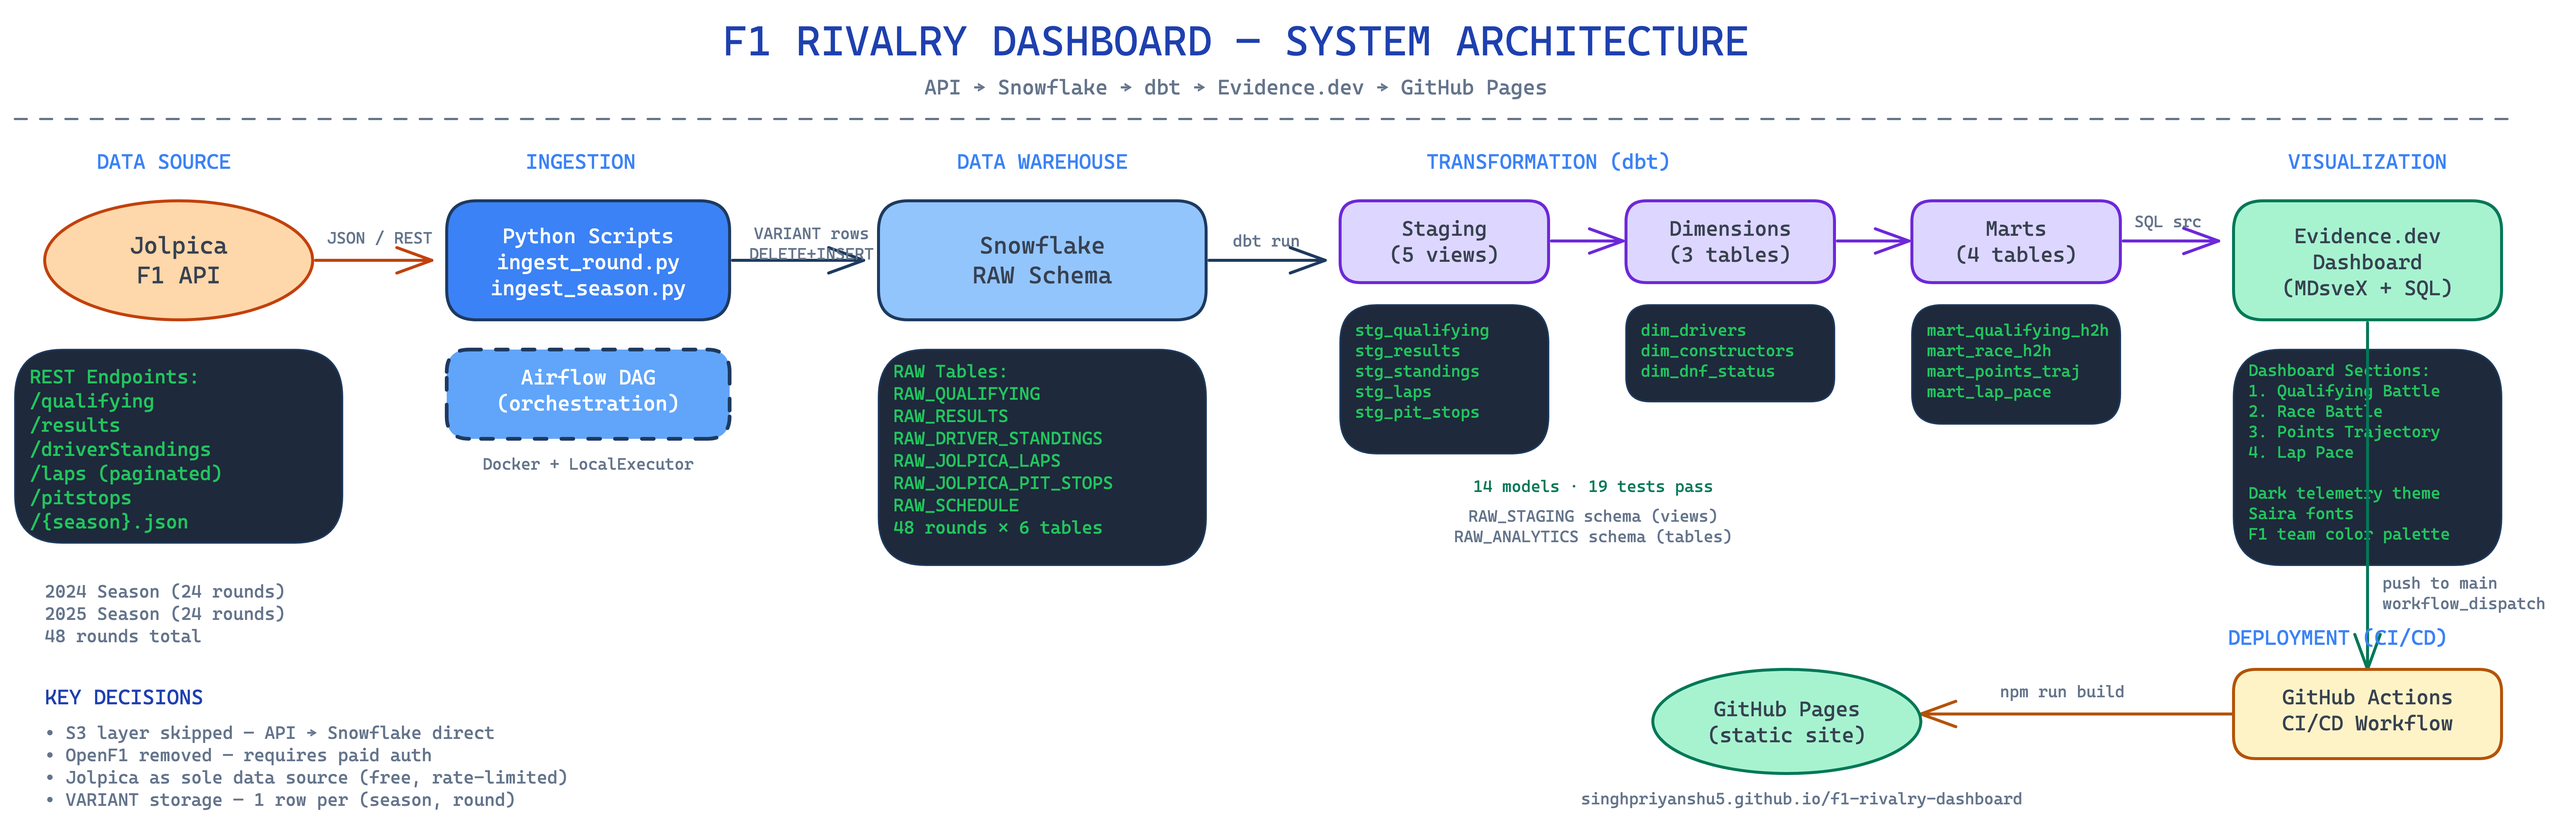
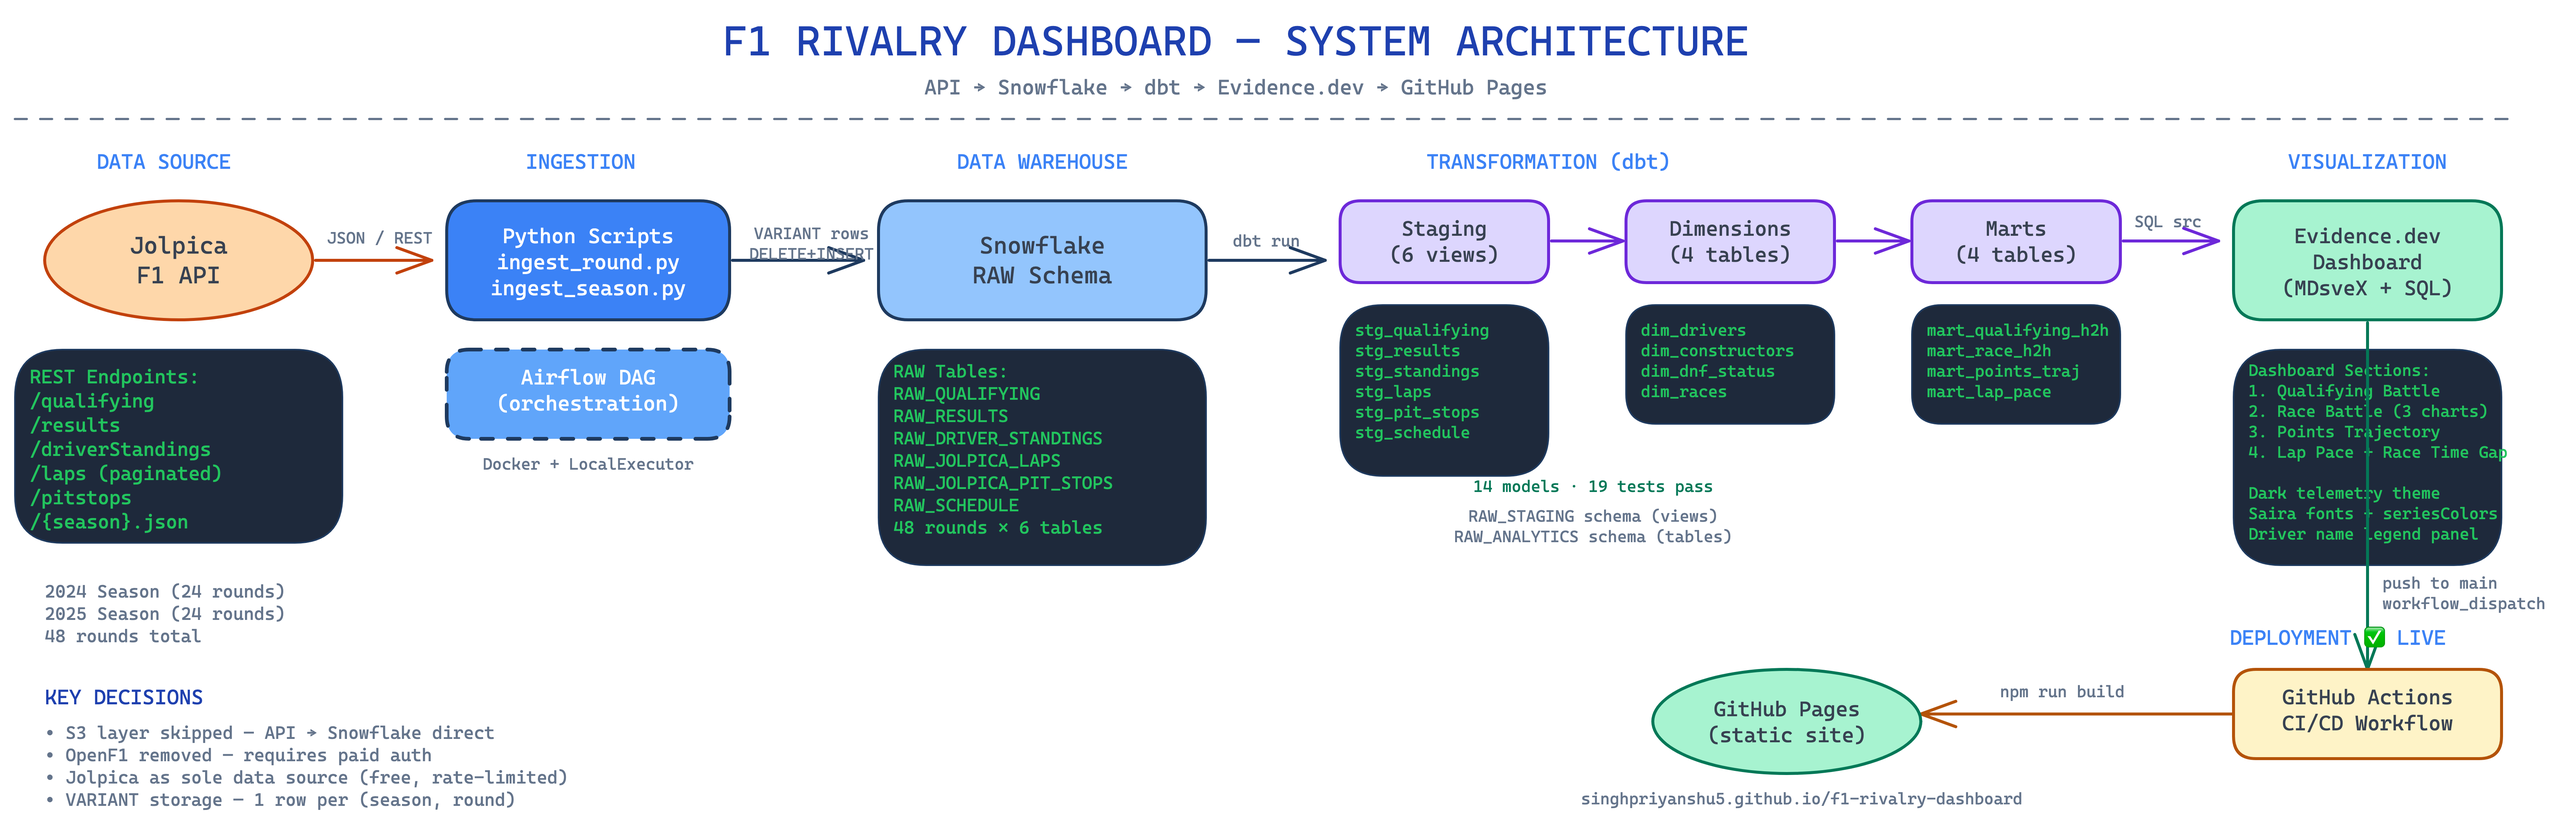
Add README and update architecture diagrams to reflect current state

diff --git a/README.md b/README.md
@@ -1,0 +1,177 @@
+# F1 Teammate Rivalry Dashboard
+
+An end-to-end data engineering project that visualizes Formula 1 teammate rivalries across qualifying, race results, points progression, and lap pace — built with a modern analytics stack.
+
+**Live Dashboard:** [singhpriyanshu5.github.io/f1-rivalry-dashboard](https://singhpriyanshu5.github.io/f1-rivalry-dashboard/)
+
+![System Architecture](agent_outputs/architecture/f1-system-architecture.png)
+
+## Features
+
+- **Qualifying Battle** — Head-to-head qualifying wins and average gap (ms) per round
+- **Race Battle** — Points swing, position gap scatter, cumulative H2H wins, and detailed race results
+- **Points Trajectory** — Season-long cumulative points for selected teammates
+- **Lap Pace Comparison** — Lap-by-lap overlay and total race time gap per round
+- **Mid-Season Driver Swaps** — Cascading dropdowns let you select specific driver pairings (e.g. 2025 Red Bull: LAW vs VER for R01-R02, VER vs TSU for R03-R24)
+- **Dark Telemetry UI** — Motorsport-inspired theme with Saira fonts, F1 team colors, and card-based layout
+
+## Tech Stack
+
+| Layer | Technology |
+|-------|------------|
+| **Data Source** | [Jolpica F1 API](https://github.com/jolpica/jolpica-f1) (qualifying, results, standings, laps, pit stops, schedule) |
+| **Orchestration** | Apache Airflow (Dockerized, LocalExecutor) |
+| **Warehouse** | Snowflake (3 schema layers: RAW → STAGING → ANALYTICS) |
+| **Transformation** | dbt Core (14 models, 19 tests) |
+| **Dashboard** | [Evidence.dev](https://evidence.dev) (static site, Markdown + SQL) |
+| **CI/CD** | GitHub Actions → GitHub Pages |
+
+## Architecture
+
+```
+Jolpica API → Python Ingestion → Snowflake RAW (VARIANT)
+                                      ↓
+                                 dbt Staging (flatten + parse)
+                                      ↓
+                                 dbt Marts (H2H, trajectory, pace)
+                                      ↓
+                                 Evidence.dev → GitHub Pages
+```
+
+**Key decisions:**
+- S3 layer skipped — data flows API → Snowflake directly
+- OpenF1 replaced with Jolpica (OpenF1 requires paid sponsorship since ~2025)
+- API responses stored as single VARIANT array row per (season, round) for idempotent DELETE+INSERT
+
+## Project Structure
+
+```
+f1-rivalry-dashboard/
+├── airflow/                  # Airflow Docker setup + DAGs
+│   ├── dags/
+│   │   ├── f1_pipeline_dag.py
+│   │   └── utils/            # Jolpica API client
+│   ├── docker-compose.yml
+│   └── Dockerfile
+├── dbt/                      # dbt transformations
+│   ├── models/
+│   │   ├── staging/          # stg_qualifying, stg_results, stg_laps, etc.
+│   │   ├── dimensions/       # dim_drivers, dim_constructors, dim_races, dim_dnf_status
+│   │   └── marts/            # mart_qualifying_h2h, mart_race_h2h, mart_points_trajectory, mart_lap_pace
+│   ├── seeds/                # dnf_status_mapping.csv
+│   └── dbt_project.yml
+├── evidence/                 # Evidence.dev dashboard
+│   ├── pages/
+│   │   ├── index.md          # Dashboard page (SQL + Svelte components)
+│   │   └── +layout.svelte    # Custom dark theme layout
+│   ├── sources/snowflake/    # Source SQL queries
+│   ├── patches/              # patch-package fixes for Evidence components
+│   └── evidence.config.yaml
+├── scripts/                  # Standalone ingestion scripts
+│   ├── ingest_round.py       # Ingest single round: python ingest_round.py 2024 1
+│   ├── ingest_season.py      # Ingest full season with rate limiting
+│   └── test_apis.py          # API connectivity test
+├── sql/
+│   └── snowflake_setup.sql   # DDL for raw tables
+└── .github/workflows/
+    └── deploy-evidence.yml   # CI/CD: build Evidence → deploy to GitHub Pages
+```
+
+## Setup
+
+### Prerequisites
+
+- Python 3.9+
+- Node.js 18+
+- Docker & Docker Compose (for Airflow)
+- Snowflake account
+- dbt Core (`pip install dbt-snowflake`)
+
+### 1. Clone & Configure
+
+```bash
+git clone https://github.com/singhpriyanshu5/f1-rivalry-dashboard.git
+cd f1-rivalry-dashboard
+cp .env.example .env
+# Fill in Snowflake credentials in .env
+```
+
+### 2. Snowflake Setup
+
+```bash
+# Run the DDL to create database, schemas, and raw tables
+# Execute sql/snowflake_setup.sql in your Snowflake worksheet
+```
+
+### 3. Ingest Data
+
+```bash
+pip install snowflake-connector-python requests pandas python-dotenv
+
+# Single round
+python scripts/ingest_round.py 2024 1
+
+# Full season (sequential with rate limiting)
+python scripts/ingest_season.py 2024
+```
+
+> **Note:** Jolpica rate-limits at ~30 req/min. The season script handles this with 2s delays between rounds.
+
+### 4. Run dbt
+
+```bash
+cd dbt
+dbt deps
+dbt seed        # Load dnf_status_mapping.csv
+dbt run         # Build 14 models
+dbt test        # Run 19 tests
+```
+
+### 5. Run Evidence Dashboard (local)
+
+```bash
+cd evidence
+npm install          # postinstall runs patch-package automatically
+npm run sources      # Fetch data from Snowflake
+npm run dev          # Dev server at localhost:3000
+```
+
+### 6. Build & Deploy
+
+Pushing to `main` triggers the GitHub Actions workflow which builds Evidence and deploys to GitHub Pages.
+
+```bash
+# Or build locally
+cd evidence
+npm run build        # Static output in evidence/build/
+```
+
+**Required GitHub repo secrets for CI/CD:**
+- `EVIDENCE_SOURCE__snowflake__account`
+- `EVIDENCE_SOURCE__snowflake__username`
+- `EVIDENCE_SOURCE__snowflake__password`
+
+## Data Coverage
+
+| Season | Rounds | Status |
+|--------|--------|--------|
+| 2024 | 1–24 | Fully loaded |
+| 2025 | 1–24 | Fully loaded |
+
+## dbt Model Lineage
+
+```
+RAW_QUALIFYING ──→ stg_qualifying ──→ mart_qualifying_h2h
+RAW_RESULTS ────→ stg_results ─────→ mart_race_h2h
+RAW_DRIVER_STANDINGS → stg_driver_standings → mart_points_trajectory
+RAW_JOLPICA_LAPS ──→ stg_laps ────→ mart_lap_pace
+RAW_JOLPICA_PIT_STOPS → stg_pit_stops
+RAW_SCHEDULE ───→ stg_schedule ──→ dim_races ──→ (all marts)
+                                    dim_drivers
+                                    dim_constructors
+seeds/dnf_status_mapping.csv ─────→ dim_dnf_status ──→ mart_race_h2h
+```
+
+## License
+
+MIT
